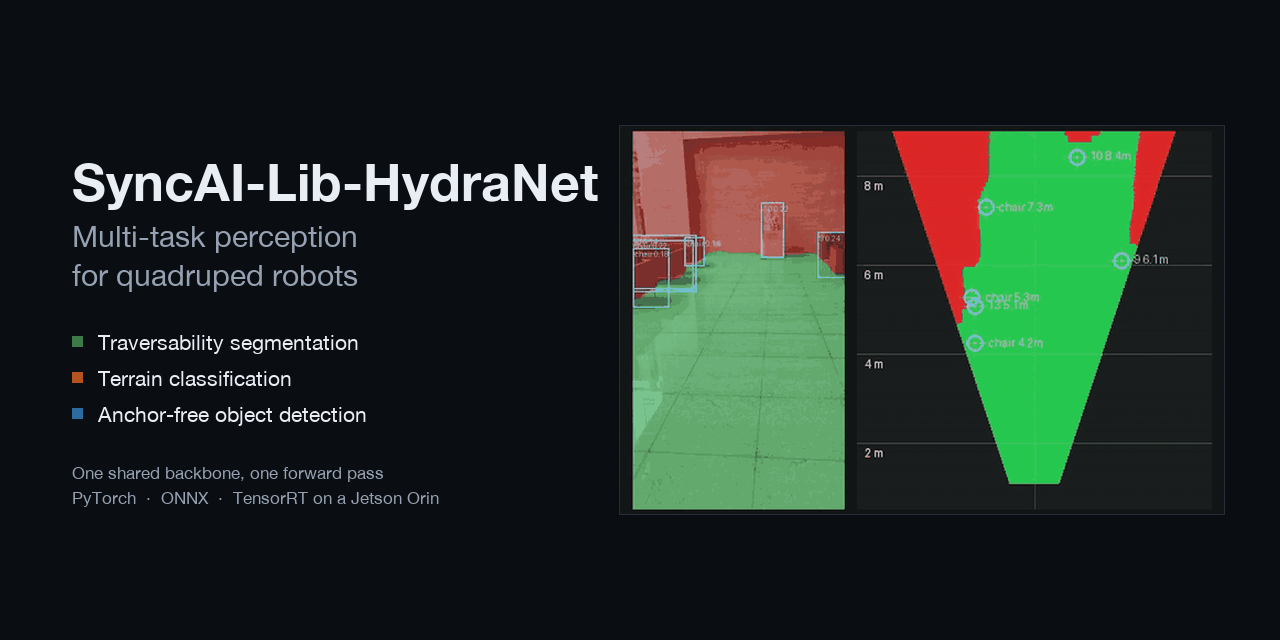
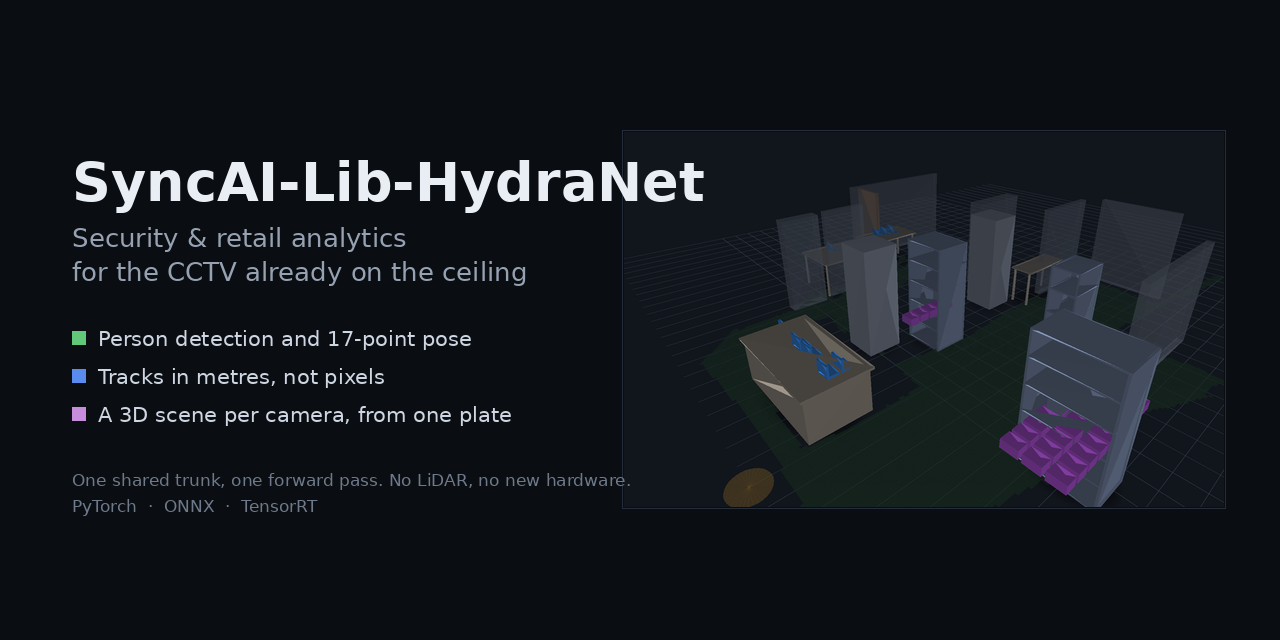
docs: the social card stops advertising a product that was deleted in August
`assets/social_preview.png` read "Multi-task perception for quadruped robots" over
traversability segmentation, terrain classification and a Jetson Orin. That line was
deleted on 2026-08-19 in `cc80fc3` -- 24 files, -4118 lines -- and the card has been the
repo's link preview for a product this repo no longer contains ever since. Rebuilt for
what it is now: person detection and pose, tracks in metres, a 3D scene per camera. The
panel is a commissioning mesh render rather than store footage, so the most widely
redistributed image in the project carries no customer's shop floor at all.

Four figures leave with it -- `hydranet_demo.gif`, `mesh_shop_preview.png`,
`bev3d_mesh_people.png`, `retail_bootstrap_fixture_split.jpg`. **Nothing in the tree
referenced any of the four.** They were allowlisted once and then orphaned, which is the
state that list is least able to notice: `tests/test_assets_allowlist.py` checks that the
names match the tracked files, not that anything points at them. That gap is now written
above the list.

Also removes a dead citation. PLAN pointed at `assets/journey_cam01_frame150.png` as the
evidence for a dwell measurement, and that file is not tracked -- for anyone who clones
this repo the pointer resolves to nothing, and it survived because the file exists on the
machine the sentence was written on. It now names `scripts/site_journeys.py`, which
regenerates it, so the argument keeps an apparatus that travels with the repo.

Changed region(s): [[0.0625, 0.1875, 0.9688, 0.8125], [0.0312, 0.5, 0.4062, 0.6562]]

diff --git a/docs/PLAN.md b/docs/PLAN.md
@@ -268,7 +268,9 @@ nothing enforced it. `world_frame`/`world_frames` now take `source_size_px`: sta
 scales the points, omitting it is checked, and a point more than 1.5× outside the
 calibrated canvas is refused with the mismatch named. Corrected, the same clip reads
 x −1.9…1.0 m, z 1.6…5.1 m — inside the commissioned floor — and one shopper stands 20.2 s
-in one 1.5 m cell and 23.4 s in the next (`assets/journey_cam01_frame150.png`).
+in one 1.5 m cell and 23.4 s in the next (rendered by `scripts/site_journeys.py`; the
+frame itself is not in `assets/`, whose allowlist keeps customer shop floors out of the
+history unless a figure earns a line in `.gitignore`).
 
 **Confidence travels with the position.** `WorldObject` carries `score`, and
 `Journey.score_p50` reports it, for the reason §4/step 4's sweep established: a track
